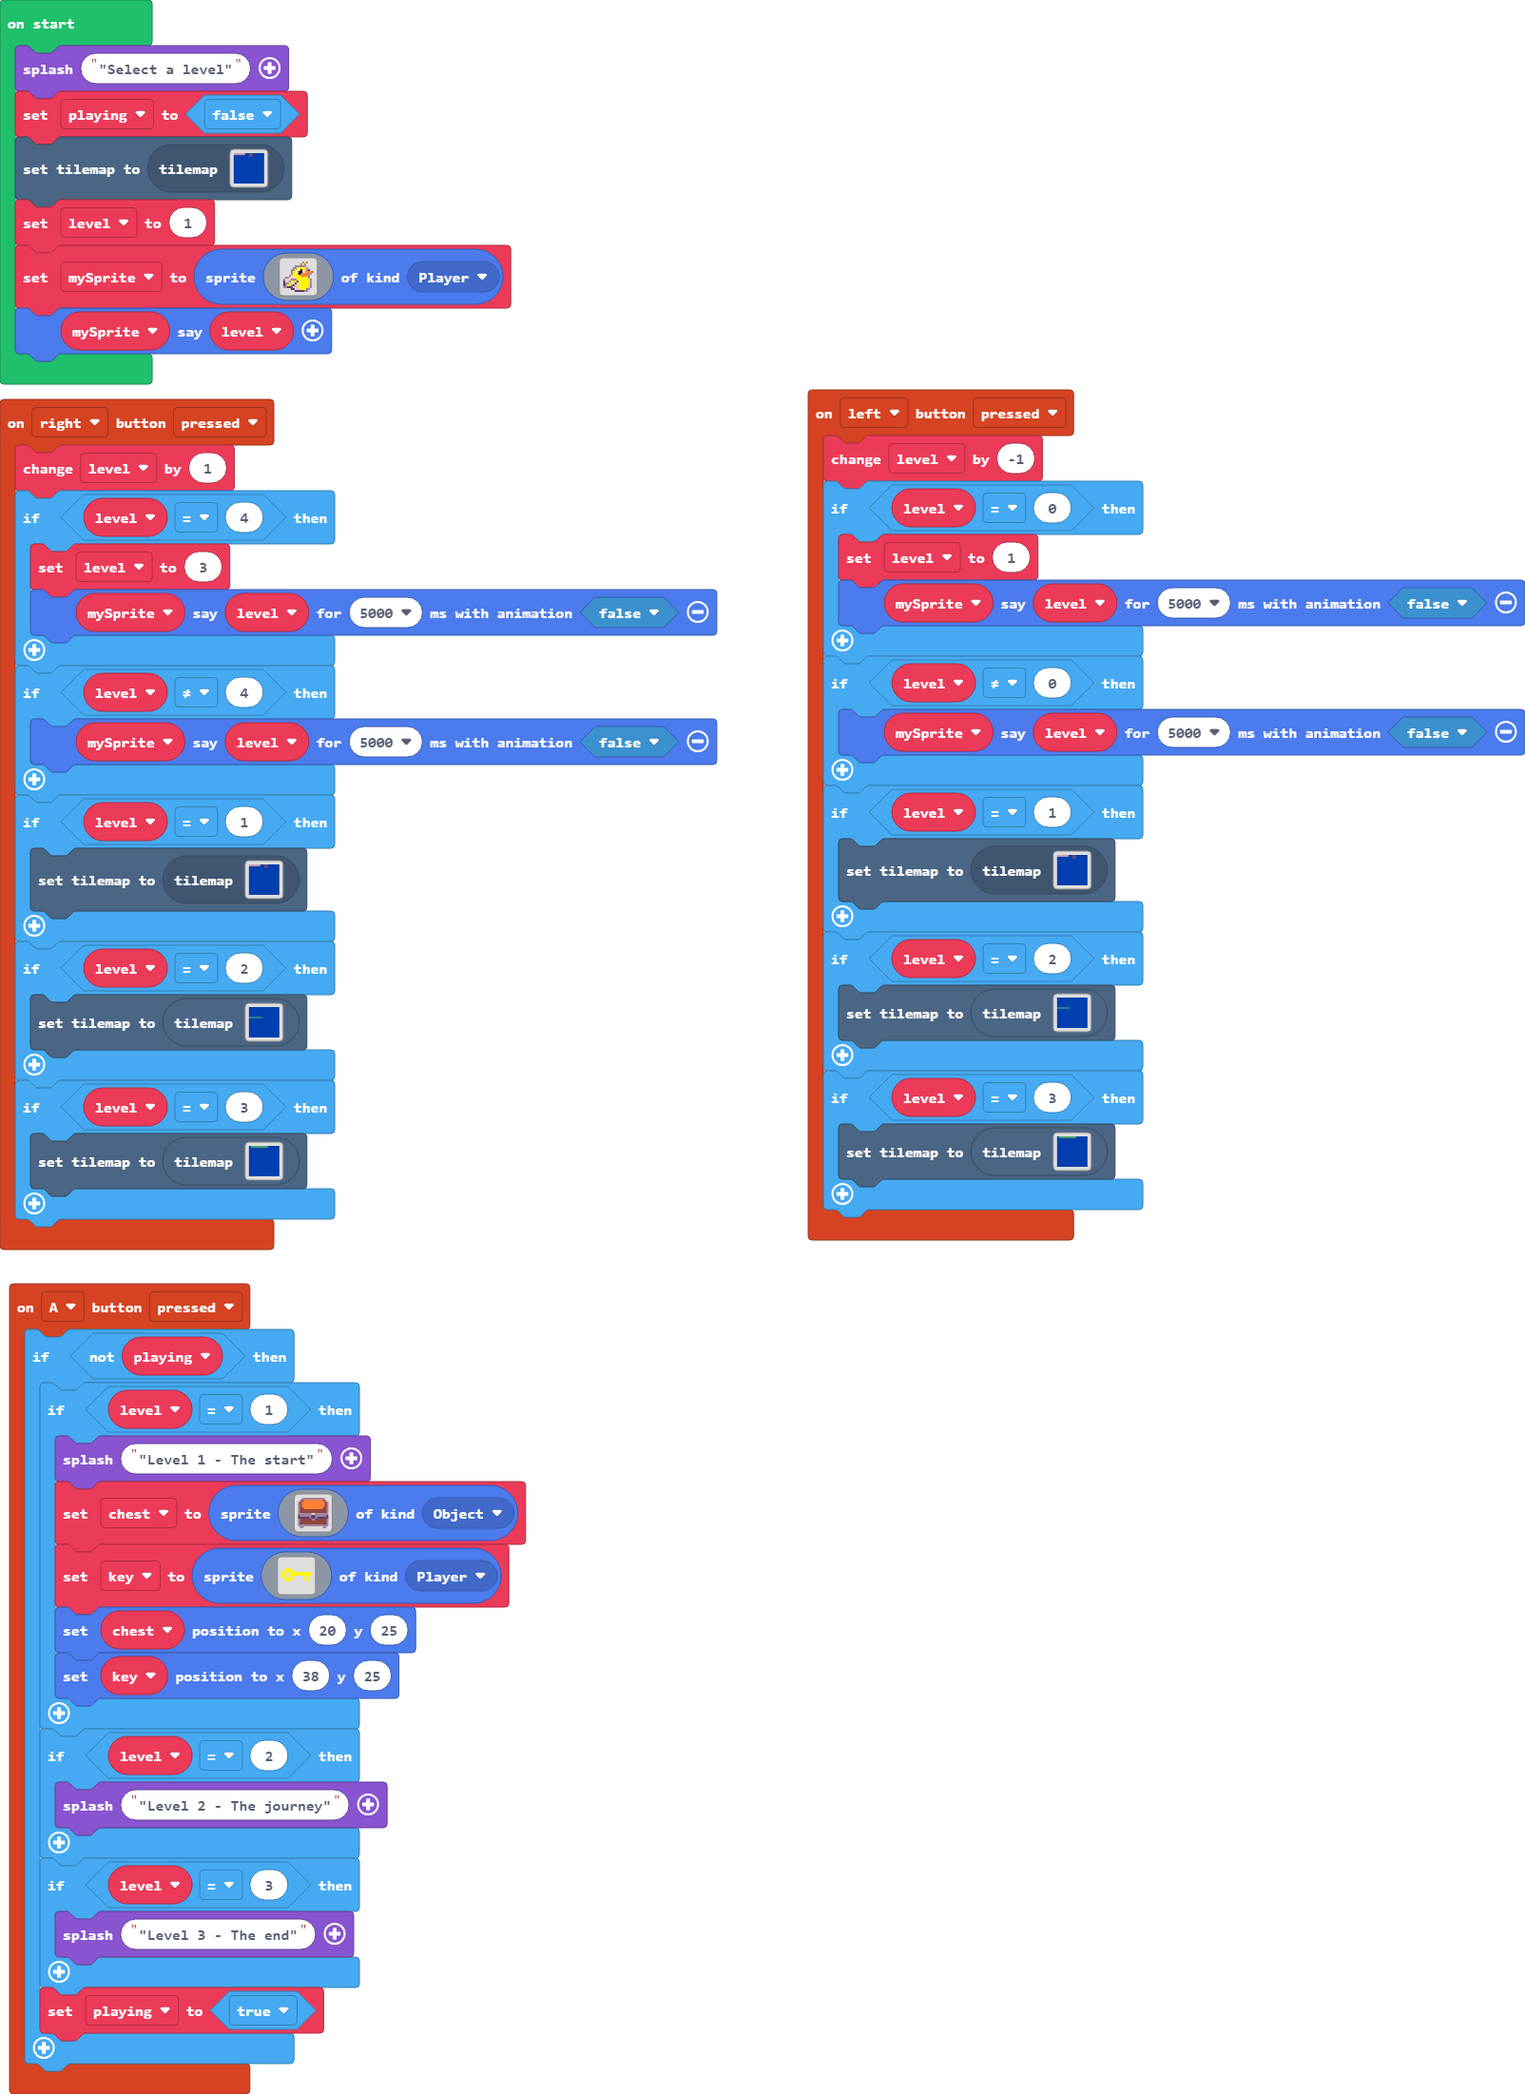
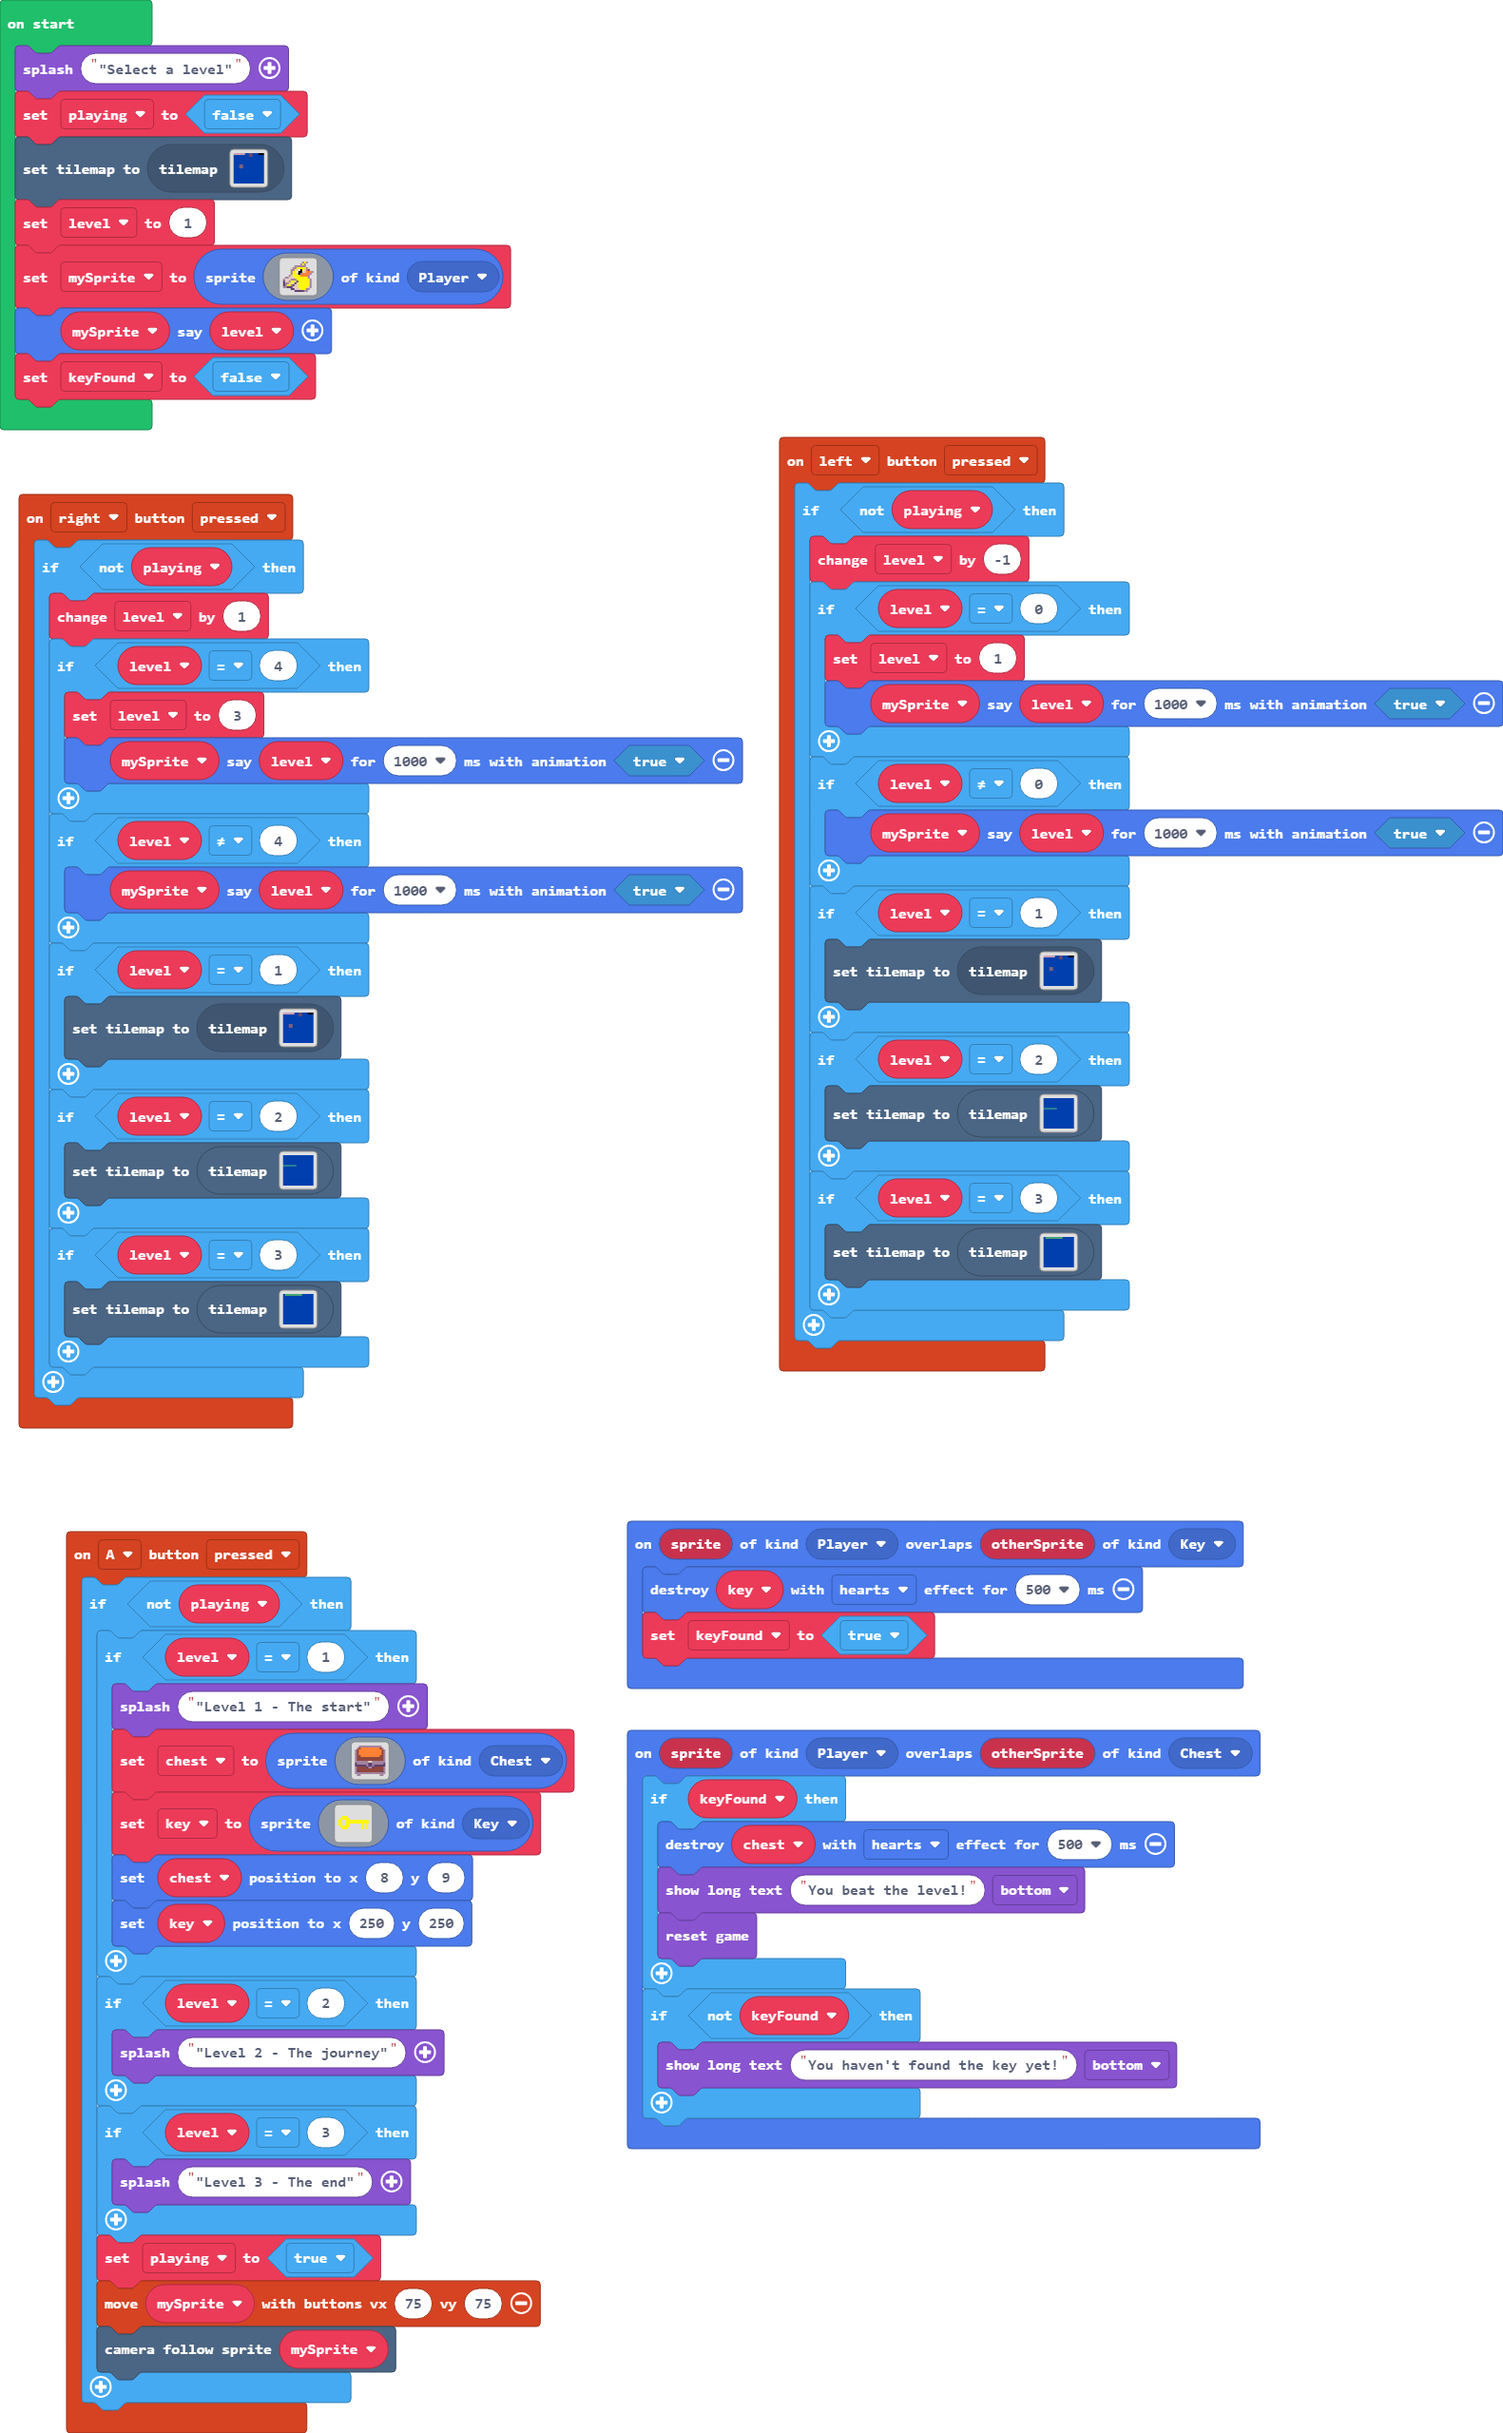
Update main.blocks, main.ts, tilemap.g.jres, tilemap.g.ts

diff --git a/main.ts b/main.ts
@@ -1,5 +1,6 @@
 namespace SpriteKind {
-    export const Object = SpriteKind.create()
+    export const Chest = SpriteKind.create()
+    export const Key = SpriteKind.create()
 }
 controller.A.onEvent(ControllerButtonEvent.Pressed, function () {
     if (!(playing)) {
@@ -22,7 +23,7 @@ controller.A.onEvent(ControllerButtonEvent.Pressed, function () {
                 b c e e e e e e e e e e e e c b 
                 b b b b b b b b b b b b b b b b 
                 . b b . . . . . . . . . . b b . 
-                `, SpriteKind.Object)
+                `, SpriteKind.Chest)
             key = sprites.create(img`
                 . . . . . . . . . . . . . . . . 
                 . . . . . . . . . . . . . . . . 
@@ -40,9 +41,9 @@ controller.A.onEvent(ControllerButtonEvent.Pressed, function () {
                 . . . . . . . . . . . . . . . . 
                 . . . . . . . . . . . . . . . . 
                 . . . . . . . . . . . . . . . . 
-                `, SpriteKind.Player)
-            chest.setPosition(20, 25)
-            key.setPosition(38, 25)
+                `, SpriteKind.Key)
+            chest.setPosition(8, 9)
+            key.setPosition(250, 250)
         }
         if (level == 2) {
             game.splash("\"Level 2 - The journey\"")
@@ -51,48 +52,69 @@ controller.A.onEvent(ControllerButtonEvent.Pressed, function () {
             game.splash("\"Level 3 - The end\"")
         }
         playing = true
+        controller.moveSprite(mySprite, 75, 75)
+        scene.cameraFollowSprite(mySprite)
     }
 })
 controller.left.onEvent(ControllerButtonEvent.Pressed, function () {
-    level += -1
-    if (level == 0) {
-        level = 1
-        mySprite.sayText(level, 5000, false)
-    }
-    if (level != 0) {
-        mySprite.sayText(level, 5000, false)
-    }
-    if (level == 1) {
-        tiles.setCurrentTilemap(tilemap`level0`)
-    }
-    if (level == 2) {
-        tiles.setCurrentTilemap(tilemap`level14`)
-    }
-    if (level == 3) {
-        tiles.setCurrentTilemap(tilemap`level15`)
+    if (!(playing)) {
+        level += -1
+        if (level == 0) {
+            level = 1
+            mySprite.sayText(level, 1000, true)
+        }
+        if (level != 0) {
+            mySprite.sayText(level, 1000, true)
+        }
+        if (level == 1) {
+            tiles.setCurrentTilemap(tilemap`level0`)
+        }
+        if (level == 2) {
+            tiles.setCurrentTilemap(tilemap`level14`)
+        }
+        if (level == 3) {
+            tiles.setCurrentTilemap(tilemap`level15`)
+        }
     }
 })
+sprites.onOverlap(SpriteKind.Player, SpriteKind.Chest, function (sprite, otherSprite) {
+    if (keyFound) {
+        sprites.destroy(chest, effects.hearts, 500)
+        game.showLongText("You beat the level!", DialogLayout.Bottom)
+        game.reset()
+    }
+    if (!(keyFound)) {
+        game.showLongText("You haven't found the key yet!", DialogLayout.Bottom)
+    }
+})
+sprites.onOverlap(SpriteKind.Player, SpriteKind.Key, function (sprite, otherSprite) {
+    sprites.destroy(key, effects.hearts, 500)
+    keyFound = true
+})
 controller.right.onEvent(ControllerButtonEvent.Pressed, function () {
-    level += 1
-    if (level == 4) {
-        level = 3
-        mySprite.sayText(level, 5000, false)
-    }
-    if (level != 4) {
-        mySprite.sayText(level, 5000, false)
-    }
-    if (level == 1) {
-        tiles.setCurrentTilemap(tilemap`level0`)
-    }
-    if (level == 2) {
-        tiles.setCurrentTilemap(tilemap`level14`)
-    }
-    if (level == 3) {
-        tiles.setCurrentTilemap(tilemap`level15`)
+    if (!(playing)) {
+        level += 1
+        if (level == 4) {
+            level = 3
+            mySprite.sayText(level, 1000, true)
+        }
+        if (level != 4) {
+            mySprite.sayText(level, 1000, true)
+        }
+        if (level == 1) {
+            tiles.setCurrentTilemap(tilemap`level0`)
+        }
+        if (level == 2) {
+            tiles.setCurrentTilemap(tilemap`level14`)
+        }
+        if (level == 3) {
+            tiles.setCurrentTilemap(tilemap`level15`)
+        }
     }
 })
 let key: Sprite = null
 let chest: Sprite = null
+let keyFound = false
 let mySprite: Sprite = null
 let level = 0
 let playing = false
@@ -119,3 +141,4 @@ mySprite = sprites.create(img`
     . . . . . . c c c c c b b . . . 
     `, SpriteKind.Player)
 mySprite.sayText(level)
+keyFound = false

diff --git a/tilemap.g.ts b/tilemap.g.ts
@@ -12,6 +12,8 @@ namespace myTiles {
     export const tile4 = image.ofBuffer(hex``);
     //% fixedInstance jres blockIdentity=images._tile
     export const tile6 = image.ofBuffer(hex``);
+    //% fixedInstance jres blockIdentity=images._tile
+    export const tile5 = image.ofBuffer(hex``);
 
     helpers._registerFactory("tilemap", function(name: string) {
         switch(helpers.stringTrim(name)) {
@@ -320,7 +322,7 @@ namespace myTiles {
 . . . . . . . . . . . . . . . . 
 `, [myTiles.transparency16], TileScale.Sixteen);
             case "level0":
-            case "level2":return tiles.createTilemap(hex`1000100002020202020201010303010101010101010101010101010103030101010101010101010101010101010101010101010101010101010101010101010101010101010101010101010101010101010101010101010101010101010101010101010101010101010101010101010101010101010101010101010101010101010101010101010101010101010101010101010101010101010101010101010101010101010101010101010101010101010101010101010101010101010101010101010101010101010101010101010101010101010101010101010101010101010101010101010101010101010101010101010101010101010101010101010101010101`, img`
+            case "level2":return tiles.createTilemap(hex`1000100002020202020201010303010101070606010101010101010103030101010101010101010101010101010101010101010101010101010101010101010101010101010101010101010101010101010101010101010101010101010101010101010101010105050101010101010101010101010101050501010101010101010101010101010101010101010101010101010101010101010101010101010101010101010101010101010101010101010101010101010101010101010101010101010101010101010101010101010101010101010101010101010101010101010101010101010101010101010101010101010104040401010101010101010101010101`, img`
 . . . . . . . . . . . . . . . . 
 . . . . . . . . . . . . . . . . 
 . . . . . . . . . . . . . . . . 
@@ -337,7 +339,7 @@ namespace myTiles {
 . . . . . . . . . . . . . . . . 
 . . . . . . . . . . . . . . . . 
 . . . . . . . . . . . . . . . . 
-`, [myTiles.transparency16,myTiles.tile1,sprites.builtin.oceanSand2,sprites.builtin.oceanSand8], TileScale.Sixteen);
+`, [myTiles.transparency16,myTiles.tile1,sprites.builtin.oceanSand2,sprites.builtin.oceanSand8,myTiles.tile5,sprites.builtin.oceanDepths3,sprites.builtin.oceanDepths9,sprites.builtin.oceanDepths8], TileScale.Sixteen);
         }
         return null;
     })
@@ -355,6 +357,8 @@ namespace myTiles {
             case "tile4":return tile4;
             case "myTile4":
             case "tile6":return tile6;
+            case "myTile3":
+            case "tile5":return tile5;
         }
         return null;
     })
